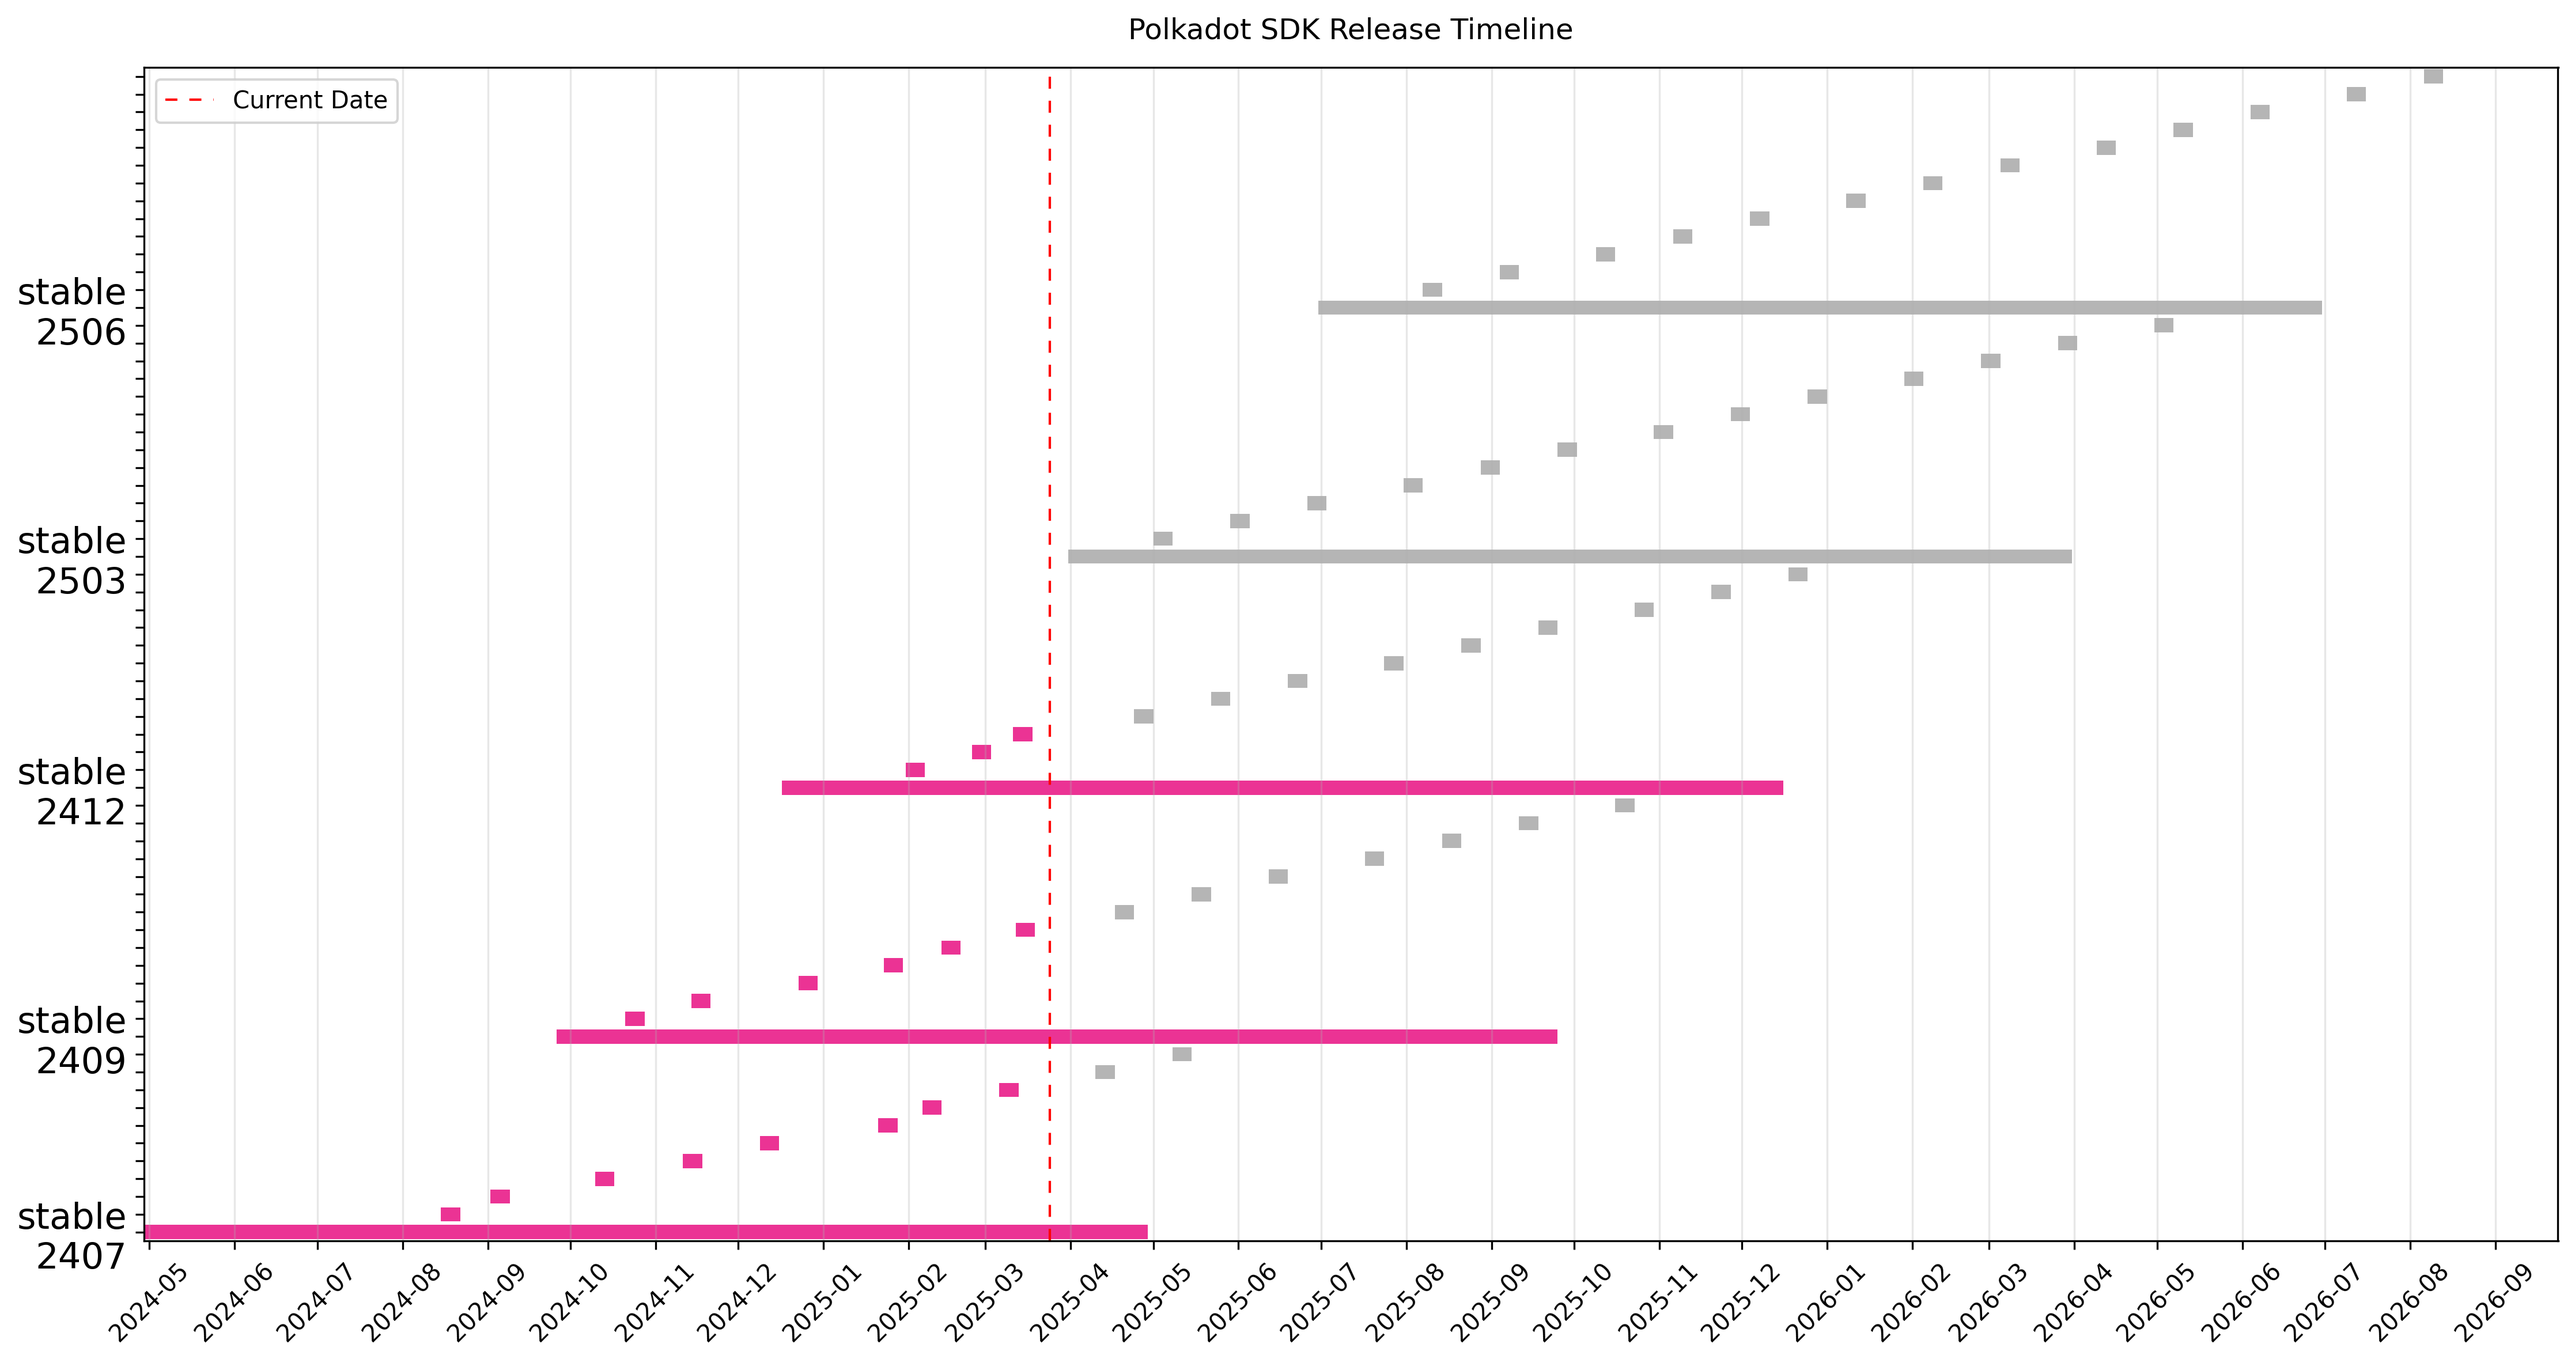
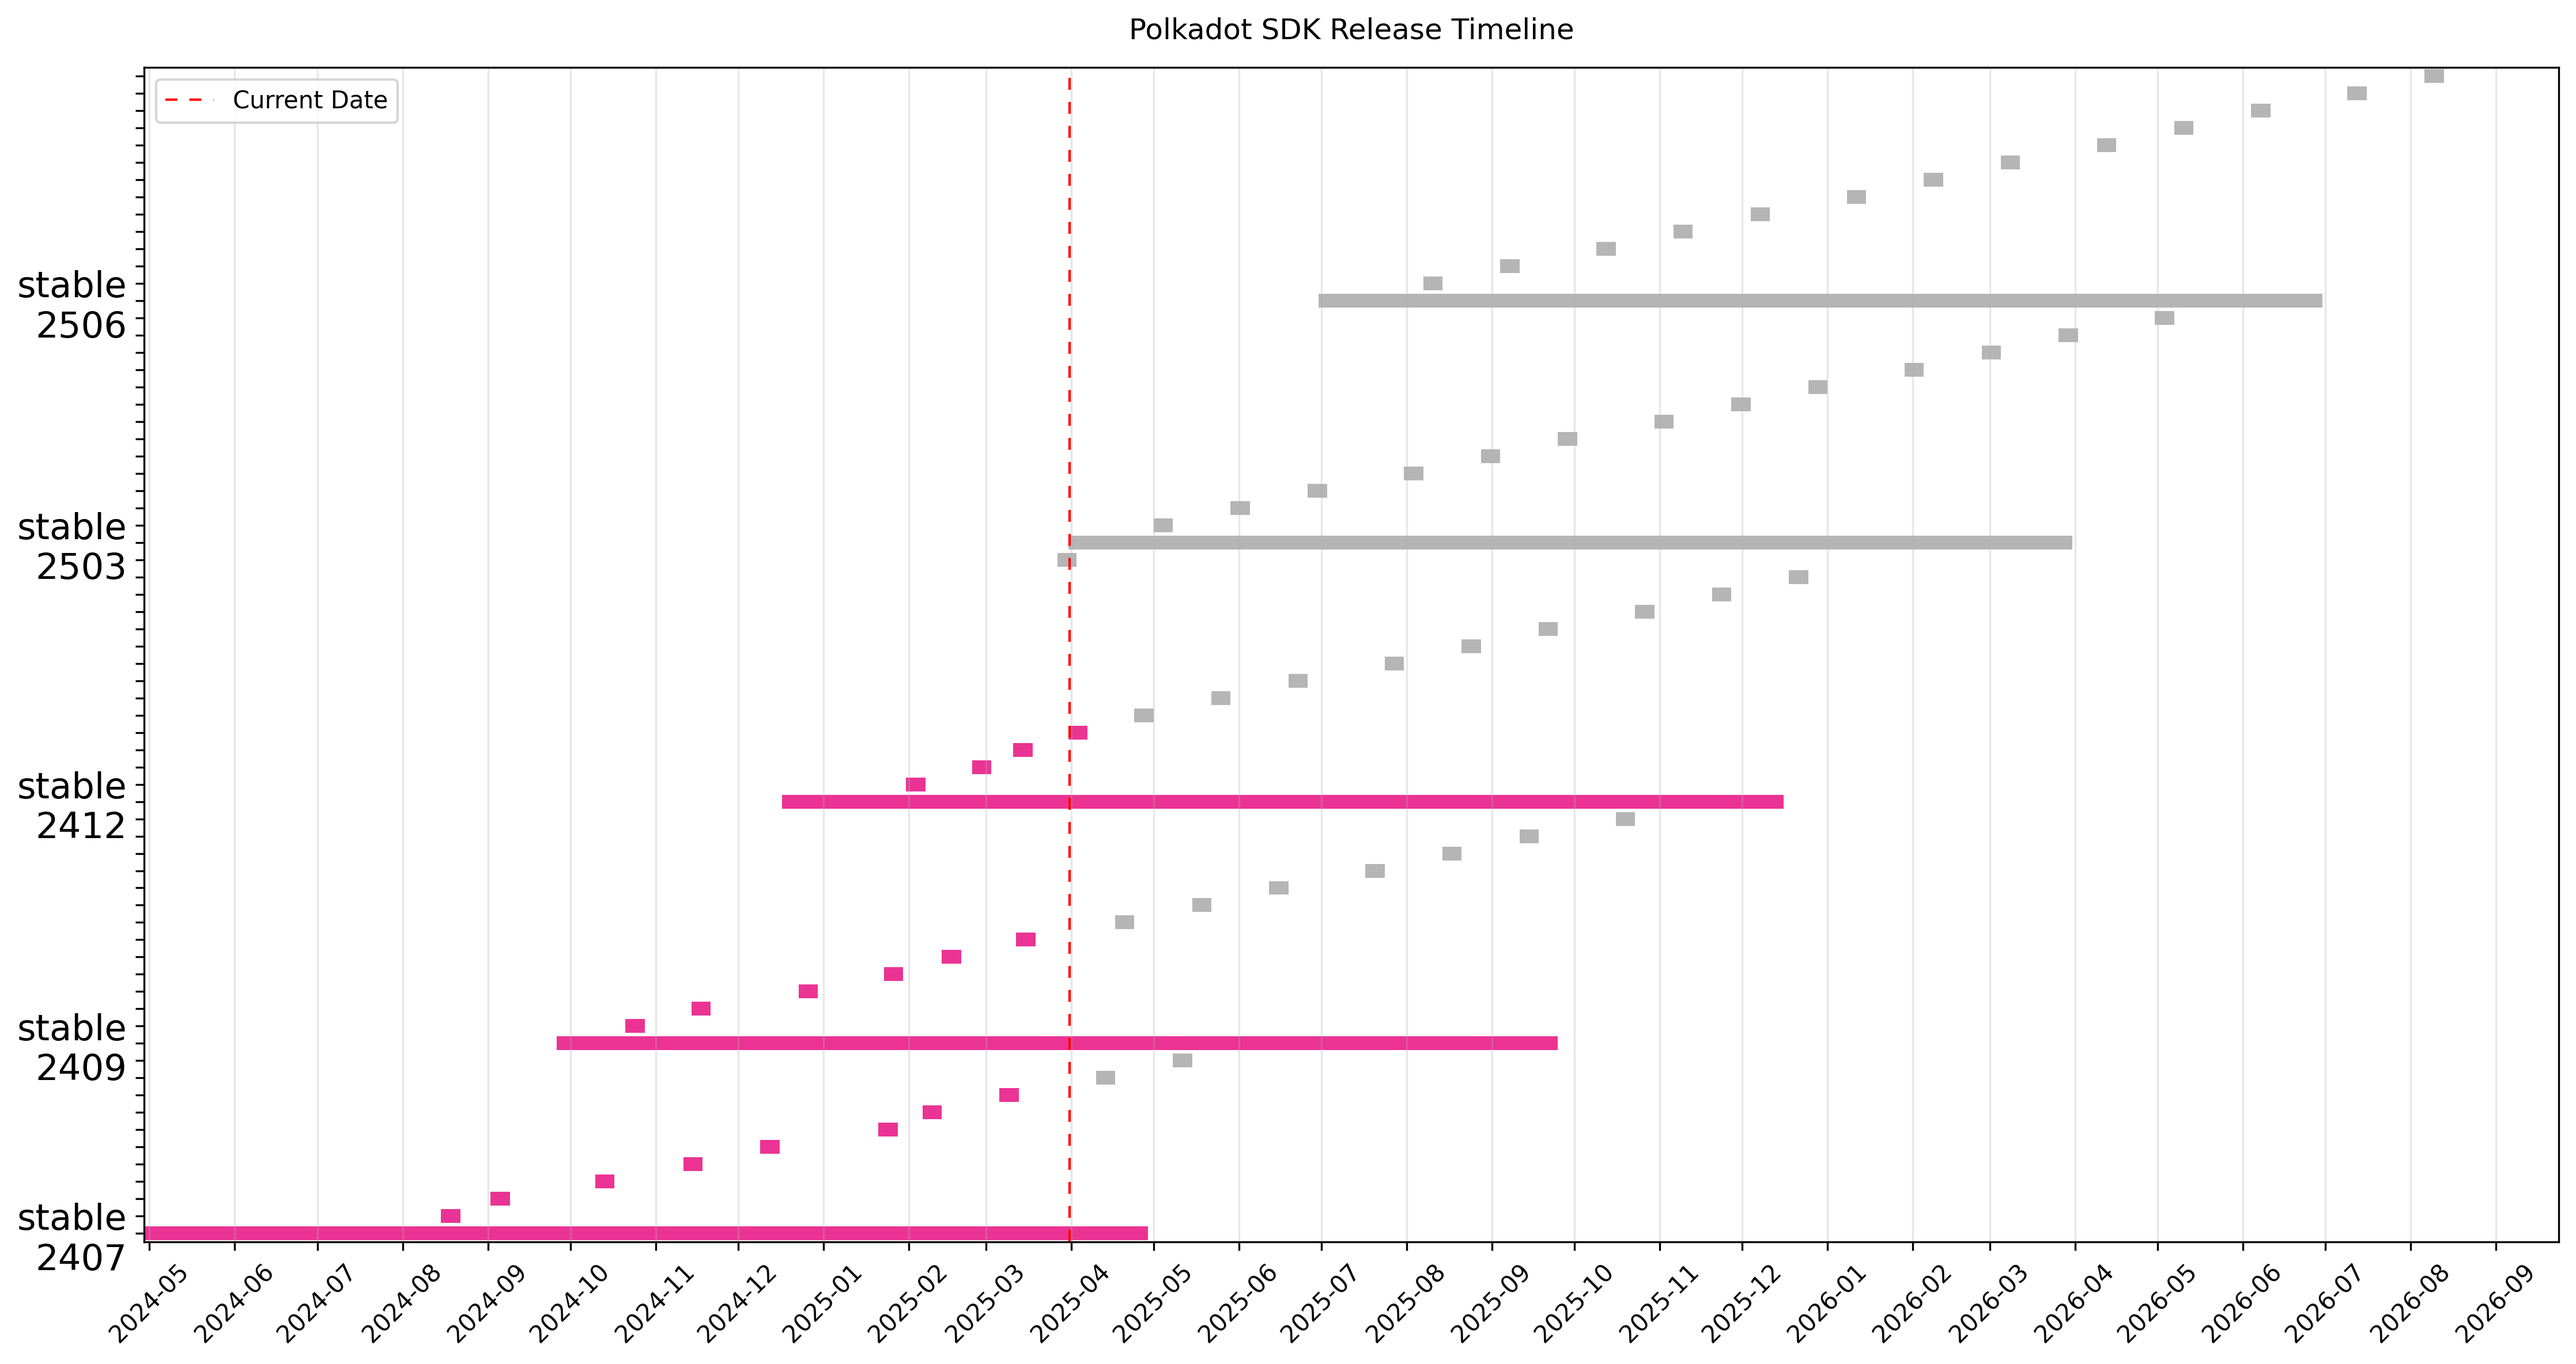
Released stable2412-4

diff --git a/CALENDAR.md b/CALENDAR.md
@@ -37,15 +37,17 @@ Full untruncated version index.
 | &nbsp;&nbsp;stable2412-1 | 2025-01-29 | 2025-01-31 |  | [Released](https://github.com/paritytech/polkadot-sdk/releases/tag/polkadot-stable2412-1) |
 | &nbsp;&nbsp;stable2412-2 | 2025-02-21 | 2025-02-24 |  | [Released](https://github.com/paritytech/polkadot-sdk/releases/tag/polkadot-stable2412-2) |
 | &nbsp;&nbsp;stable2412-3 | 2025-03-11 | 2025-03-11 |  | [Released](https://github.com/paritytech/polkadot-sdk/releases/tag/polkadot-stable2412-3) |
-| &nbsp;&nbsp;stable2412-4 | 2025-04-21 | 2025-04-24 |  | Planned |
-| &nbsp;&nbsp;stable2412-5 | 2025-05-19 | 2025-05-22 |  | Planned |
-| &nbsp;&nbsp;stable2412-6 | 2025-06-16 | 2025-06-19 |  | Planned |
-| &nbsp;&nbsp;stable2412-7 | 2025-07-21 | 2025-07-24 |  | Planned |
-| &nbsp;&nbsp;stable2412-8 | 2025-08-18 | 2025-08-21 |  | Planned |
-| &nbsp;&nbsp;stable2412-9 | 2025-09-15 | 2025-09-18 |  | Planned |
-| &nbsp;&nbsp;stable2412-10 | 2025-10-20 | 2025-10-23 |  | Planned |
-| &nbsp;&nbsp;stable2412-11 | 2025-11-17 | 2025-11-20 |  | Planned |
-| &nbsp;&nbsp;stable2412-12 | 2025-12-15 | 2025-12-18 |  | Planned |
+| &nbsp;&nbsp;stable2412-4 | 2025-03-11 | 2025-03-31 |  | [Released](https://github.com/paritytech/polkadot-sdk/releases/tag/polkadot-stable2412-4) |
+| &nbsp;&nbsp;stable2412-4 | 2025-03-27 | 2025-03-27 |  | Testing |
+| &nbsp;&nbsp;stable2412-5 | 2025-04-21 | 2025-04-24 |  | Planned |
+| &nbsp;&nbsp;stable2412-6 | 2025-05-19 | 2025-05-22 |  | Planned |
+| &nbsp;&nbsp;stable2412-7 | 2025-06-16 | 2025-06-19 |  | Planned |
+| &nbsp;&nbsp;stable2412-8 | 2025-07-21 | 2025-07-24 |  | Planned |
+| &nbsp;&nbsp;stable2412-9 | 2025-08-18 | 2025-08-21 |  | Planned |
+| &nbsp;&nbsp;stable2412-10 | 2025-09-15 | 2025-09-18 |  | Planned |
+| &nbsp;&nbsp;stable2412-11 | 2025-10-20 | 2025-10-23 |  | Planned |
+| &nbsp;&nbsp;stable2412-12 | 2025-11-17 | 2025-11-20 |  | Planned |
+| &nbsp;&nbsp;stable2412-13 | 2025-12-15 | 2025-12-18 |  | Planned |
 | **stable2503** | 2025-02-17 | 2025-03-31 | 2026-03-31 | Planned |
 | &nbsp;&nbsp;stable2503-1 | 2025-04-28 | 2025-05-01 |  | Planned |
 | &nbsp;&nbsp;stable2503-2 | 2025-05-26 | 2025-05-29 |  | Planned |

diff --git a/README.md b/README.md
@@ -33,11 +33,11 @@ Planned and historic release dates:
 | &nbsp;&nbsp;stable2409-8 | 2025-05-12 | 2025-05-15 |  | Planned |
 | &nbsp;&nbsp;[4 more past, 5 more planned](CALENDAR.md) |  |  | | |
 | **stable2412** | 2024-11-06 | 2024-12-17 | 2025-12-16 | [Released](https://github.com/paritytech/polkadot-sdk/releases/tag/polkadot-stable2412) |
-| &nbsp;&nbsp;stable2412-2 | 2025-02-21 | 2025-02-24 |  | [Released](https://github.com/paritytech/polkadot-sdk/releases/tag/polkadot-stable2412-2) |
-| &nbsp;&nbsp;stable2412-3 | 2025-03-11 | 2025-03-11 |  | [Released](https://github.com/paritytech/polkadot-sdk/releases/tag/polkadot-stable2412-3) |
-| &nbsp;&nbsp;stable2412-4 | 2025-04-21 | 2025-04-24 |  | Planned |
-| &nbsp;&nbsp;stable2412-5 | 2025-05-19 | 2025-05-22 |  | Planned |
-| &nbsp;&nbsp;[1 more past, 7 more planned](CALENDAR.md) |  |  | | |
+| &nbsp;&nbsp;stable2412-4 | 2025-03-11 | 2025-03-31 |  | [Released](https://github.com/paritytech/polkadot-sdk/releases/tag/polkadot-stable2412-4) |
+| &nbsp;&nbsp;stable2412-4 | 2025-03-27 | 2025-03-27 |  | Testing |
+| &nbsp;&nbsp;stable2412-5 | 2025-04-21 | 2025-04-24 |  | Planned |
+| &nbsp;&nbsp;stable2412-6 | 2025-05-19 | 2025-05-22 |  | Planned |
+| &nbsp;&nbsp;[3 more past, 7 more planned](CALENDAR.md) |  |  | | |
 | **stable2503** | 2025-02-17 | 2025-03-31 | 2026-03-31 | Planned |
 | &nbsp;&nbsp;stable2503-1 | 2025-04-28 | 2025-05-01 |  | Planned |
 | &nbsp;&nbsp;stable2503-2 | 2025-05-26 | 2025-05-29 |  | Planned |
